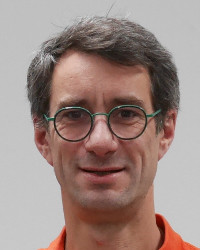
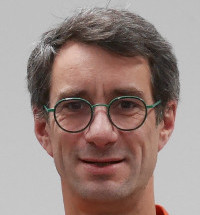
Fixed table.

diff --git a/_pages/schedule.md b/_pages/schedule.md
@@ -8,39 +8,36 @@ nav_order: 2
 ---
 
 
+<br>
+
 <div>
-<table class="table">
-
-<!-- <div class="table-responsive">
-
-<table class="table table-striped" style="table-layout: fixed; width: 100%;">
- -->
-<tr class="header" style="background-color:rgb(215,215,215); border-bottom:1pt solid black;">
+<table class="table" id="standings" style="border-collapse:collapse">
+<tr class="header" style="background-color:rgb(215, 215, 215); border-top: 1pt solid white; border-bottom: 1pt solid black;">
 <th style="width:20%">Time</th>
 <th style="width:18%">Type</th>
 <th style="width:62%">Title & Speakers</th>
 </tr>
 
-<tr style="background-color:rgb(240,240,240);">
+<tr class="header" style="background-color:rgb(240,240,240);">
 <td>8:15 – 8:30</td>
 <td></td>
 <td>Introduction — Thomas Lew (Toyota Research Institute)</td>
 </tr>
 
-<tr>
+<tr class="header">
 <td>8:30 – 9:20</td>
 <td>Invited Talk</td>
 <td>Christophe Prieur <i>(Université Grenoble Alpes)</i><br>
 Continuous Representation of some Neural Networks: a Control Perspective</td>
 </tr>
 
-<tr style="background-color:rgb(240,240,240);">
+<tr class="header" style="background-color:rgb(240,240,240);">
 <td>9:20 – 9:50</td>
 <td></td>
 <td>Coffee Break</td>
 </tr>
 
-<tr>
+<tr class="header">
 <td>9:50 – 11:20</td>
 <td>Roundtable</td>
 <td>
@@ -50,53 +47,53 @@ Sebastian Trimpe <i>(RWTH Aachen)</i>
 </td>
 </tr>
 
-<tr>
+<tr class="header">
 <td>11:20 – 12:10</td>
 <td>Invited Talk</td>
 <td>Giorgia Ramponi <i>(University of Zurich)</i></td>
 </tr>
 
-<tr style="background-color:rgb(240,240,240);">
+<tr class="header" style="background-color:rgb(240,240,240);">
 <td>12:10 – 13:10</td>
 <td></td>
 <td>Lunch Break</td>
 </tr>
 
-<tr>
+<tr class="header">
 <td>13:10 – 14:00</td>
 <td>Invited Talk</td>
 <td>Dario Paccagnan <i>(Imperial College London)</i><br>
 Pick-to-Learn for Systems and Control</td>
 </tr>
 
-<tr>
+<tr class="header">
 <td>14:00 – 14:50</td>
 <td>Invited Talk</td>
 <td>Johannes Köhler <i>(Imperial College London)</i><br>
 Model Predictive Control for Uncertain Systems — Robust & Data-Driven Designs</td>
 </tr>
 
-<tr style="background-color:rgb(240,240,240);">
+<tr class="header" style="background-color:rgb(240,240,240);">
 <td>14:50 – 15:20</td>
 <td></td>
 <td>Coffee Break</td>
 </tr>
 
-<tr>
+<tr class="header">
 <td>15:20 – 16:10</td>
 <td>Invited Talk</td>
 <td>Sebastian Trimpe <i>(RWTH Aachen)</i><br>
 Learning Directly on Hardware: The Critical Role of Uncertainty</td>
 </tr>
 
-<tr>
+<tr class="header">
 <td>16:10 – 17:00</td>
 <td>Invited Talk</td>
 <td>Licio Romao <i>(Technical University of Denmark)</i><br>
 Navigating Uncertainty in a Data-Rich World</td>
 </tr>
 
-<tr style="background-color:rgb(240,240,240);">
+<tr class="header" style="background-color:rgb(240,240,240);">
 <td>17:00 – 17:30</td>
 <td></td>
 <td>Closing Discussion</td>

diff --git a/README.md b/README.md
@@ -59,7 +59,7 @@ Imperial College London
 </div>
 
 <div class="col-sm-4">
-<img src="/assets/img/koehler_cropped.jpg" height="200"><br>
+<img src="/assets/img/koehler.jpg" height="200"><br>
 <b>Johannes Kohler</b><br>
 Imperial College London
 </div>

diff --git a/_pages/about.md b/_pages/about.md
@@ -60,7 +60,7 @@ Imperial College London
 </div>
 
 <div class="col-sm-4">
-<img src="/assets/img/koehler_cropped.jpg" height="200"><br>
+<img src="/assets/img/koehler.jpg" height="200"><br>
 <b>Johannes Kohler</b><br>
 Imperial College London
 </div>
